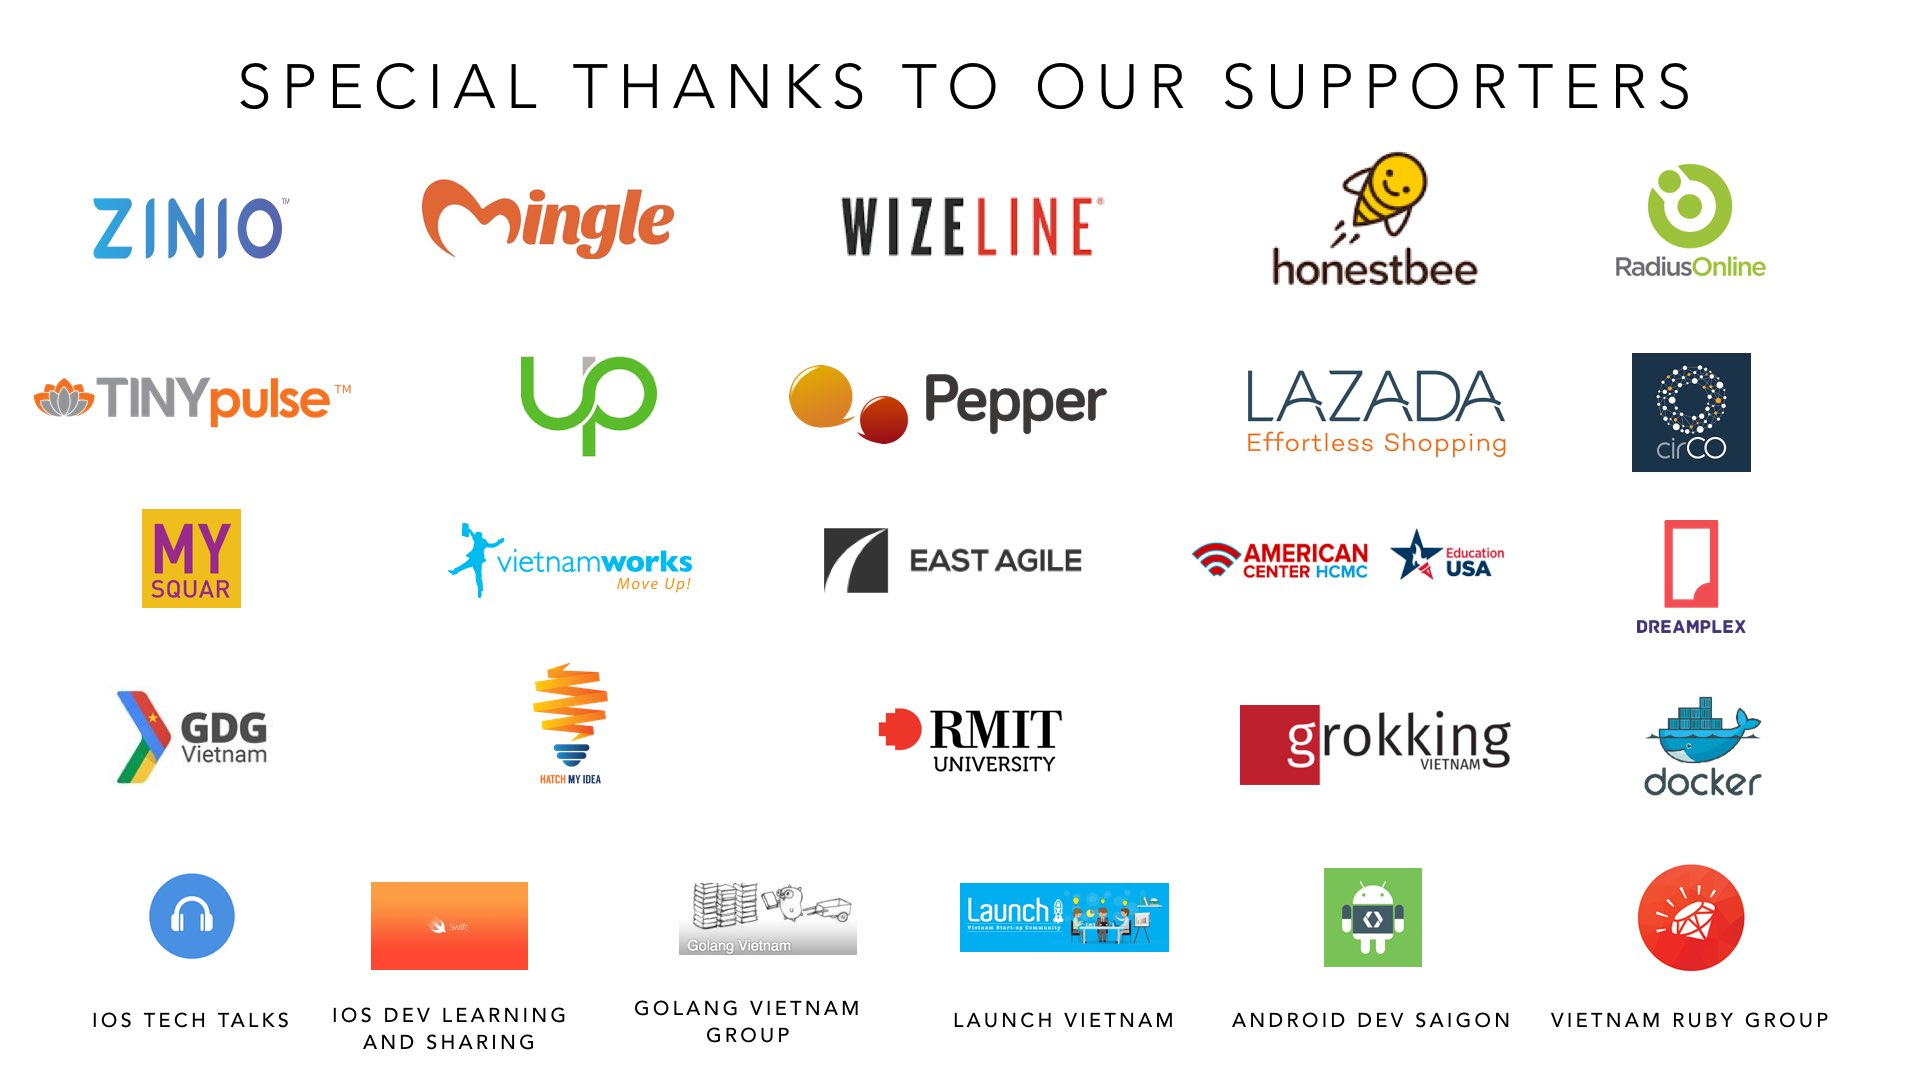
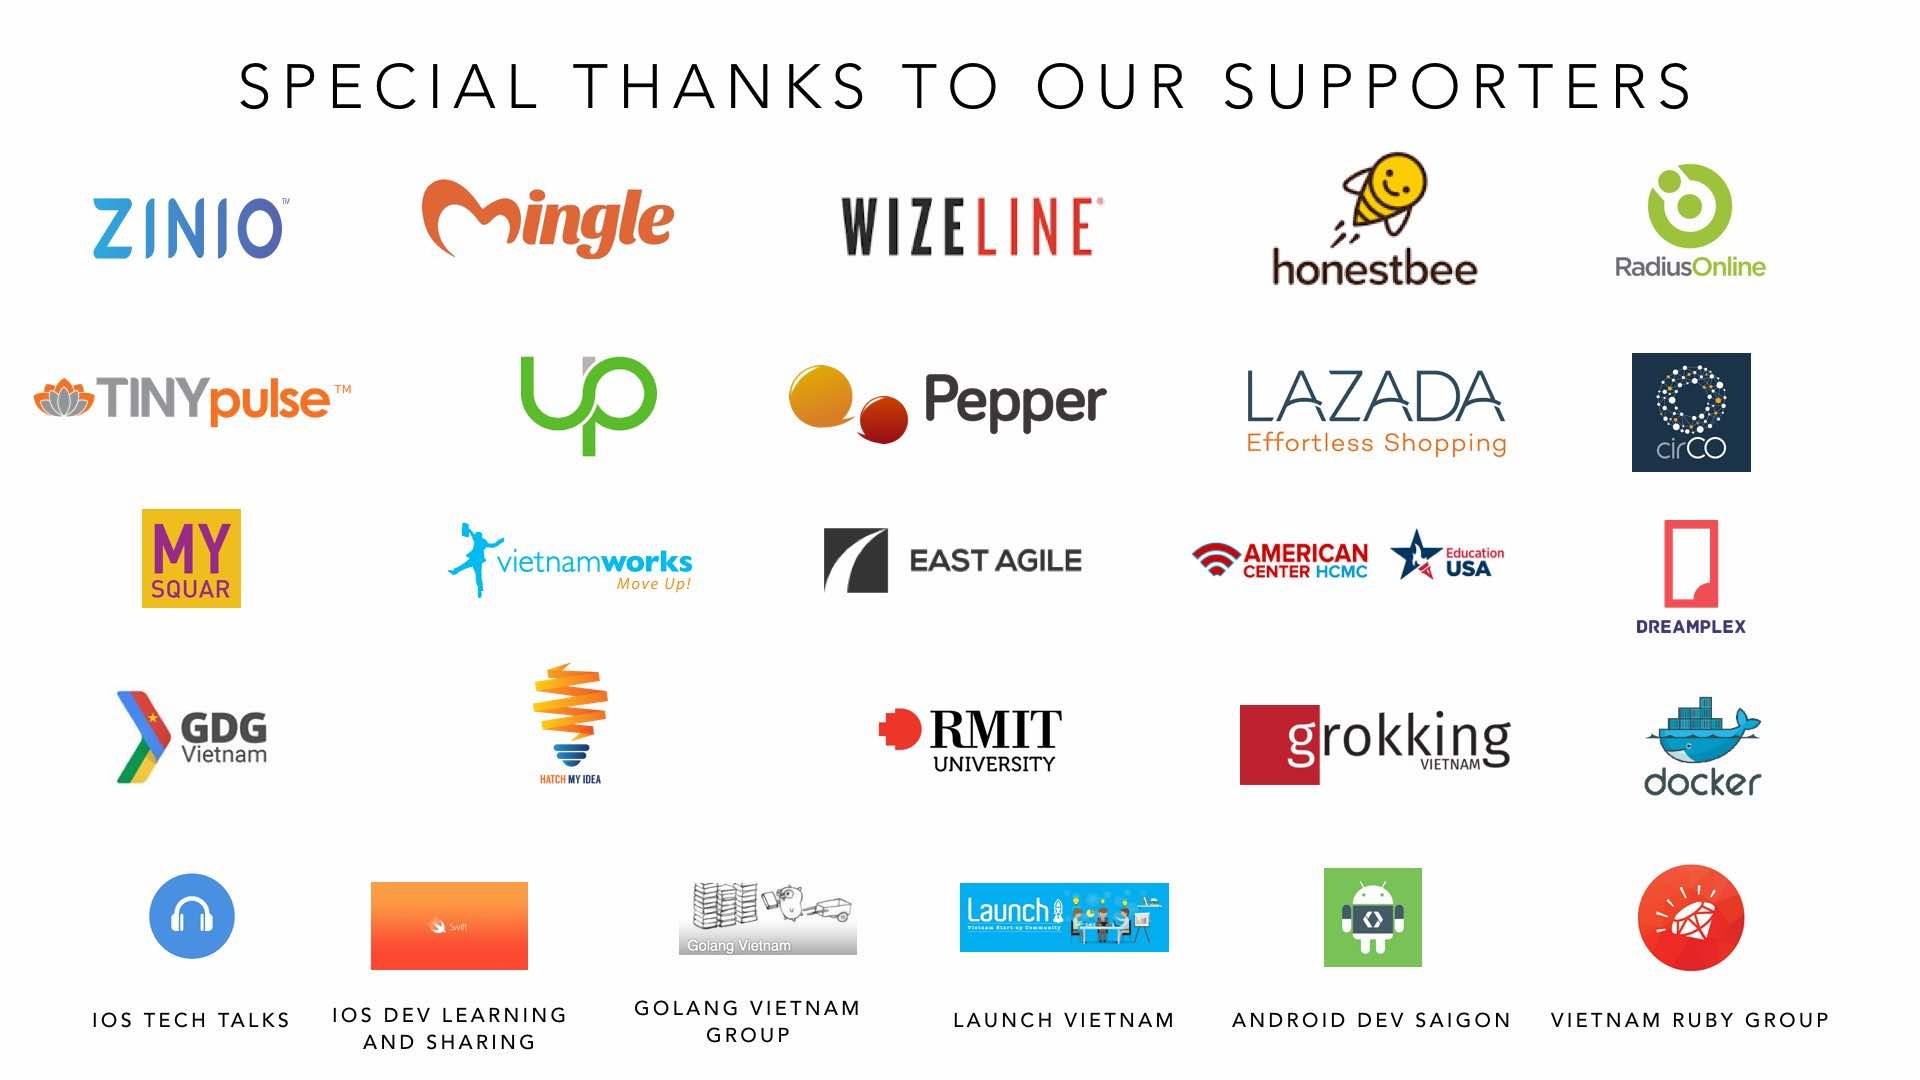
resize pics

diff --git a/index.html b/index.html
@@ -119,7 +119,7 @@
         <div class="space-item event-hall">
           <div class="row">
             <div class="col-md-7 img-left">
-              <img src="assets/eventhall.png" width="100%">
+              <img src="assets/eventhall.jpg" width="100%">
             </div>
             <div class="col-md-5 space-info-right">
               <h2 class="bot-left">EVENT HALL</h2>
@@ -134,7 +134,7 @@
         <div class="space-item class-room">
           <div class="row">
             <div class="col-md-7 img-right order-md-2">
-              <img src="assets/classroom.png" width="100%">
+              <img src="assets/classroom.jpg" width="100%">
             </div>
             <div class="col-md-5 order-md-1 space-info-left">
               <h2 class="bot-left">CLASSROOM</h2>
@@ -148,7 +148,7 @@
         <div class="space-item office-room">
           <div class="row">
             <div class="col-md-7 img-left">
-              <img src="assets/meetingroom.png" width="100%">
+              <img src="assets/meetingroom.jpg" width="100%">
             </div>
             <div class="col-md-5 space-info-right">
               <h2 class="bot-left">OFFICE ROOM</h2>
@@ -162,7 +162,7 @@
         <div class="space-item meeting-room">
           <div class="row">
             <div class="col-md-7 img-right order-md-2">
-              <img src="assets/office.png" width="100%">
+              <img src="assets/office.jpg" width="100%">
             </div>
             <div class="col-md-5 order-md-1 space-info-left">
               <h2 class="bot-left">METTING ROOM</h2>
@@ -313,10 +313,10 @@
         <div class="col-md-12">
           <h2 class="text-center header-style">OUR COMMUNITY</h2>
           <div class="header-line mx-auto"></div>
-          <img src="assets/eventspace.png" width="100%">
+          <img src="assets/eventspace.jpg" width="100%">
         </div>
         <div class="col-md-6 first-left-img">
-          <img src="assets/class.png" width="100%">
+          <img src="assets/class.jpg" width="100%">
           <div class="community-content-wrapper">
             <h5>Classes</h5>
             <p>Lorem ipsum dolor sit amet, nec ei melius alterum intellegat. Cu malorum accumsan delicatissimi vis, eos agam lorem
@@ -324,7 +324,7 @@
           </div>
         </div>
         <div class="col-md-6 first-right-img">
-          <img src="assets/cafe.png" width="100%">
+          <img src="assets/cafe.jpg" width="100%">
           <div class="community-content-wrapper">
             <h5>Cafe & Coworking Space</h5>
             <p>We provide a hip communal work space that gives both the feel of co-working space AND a cafe. The space comes equipped with fast, reliable Wi-Fi, 
@@ -332,7 +332,7 @@
           </div>
         </div>
         <div class="col-md-6 second-left-img">
-          <img src="assets/partnership.png" width="100%">
+          <img src="assets/partnership.jpg" width="100%">
           <div class="community-content-wrapper">
             <h5>Partnerships</h5>
             <p>Lorem ipsum dolor sit amet, nec ei melius alterum intellegat. Cu malorum accumsan delicatissimi vis, eos agam lorem
@@ -340,7 +340,7 @@
           </div>
         </div>
         <div class="col-md-6 second-right-img">
-          <img src="assets/event.png" width="100%">
+          <img src="assets/event.jpg" width="100%">
           <div class="community-content-wrapper">
             <h5>Event Space</h5>
             <p>Situated at the entrance to Coderschool, Modern Hustle is an ideal venue for your next event! Host up to 100 people for hackathons, birthday parties, music workshops, job fairs, and more. Available for both daytime and evening, the event space is fully equipped.</p>
